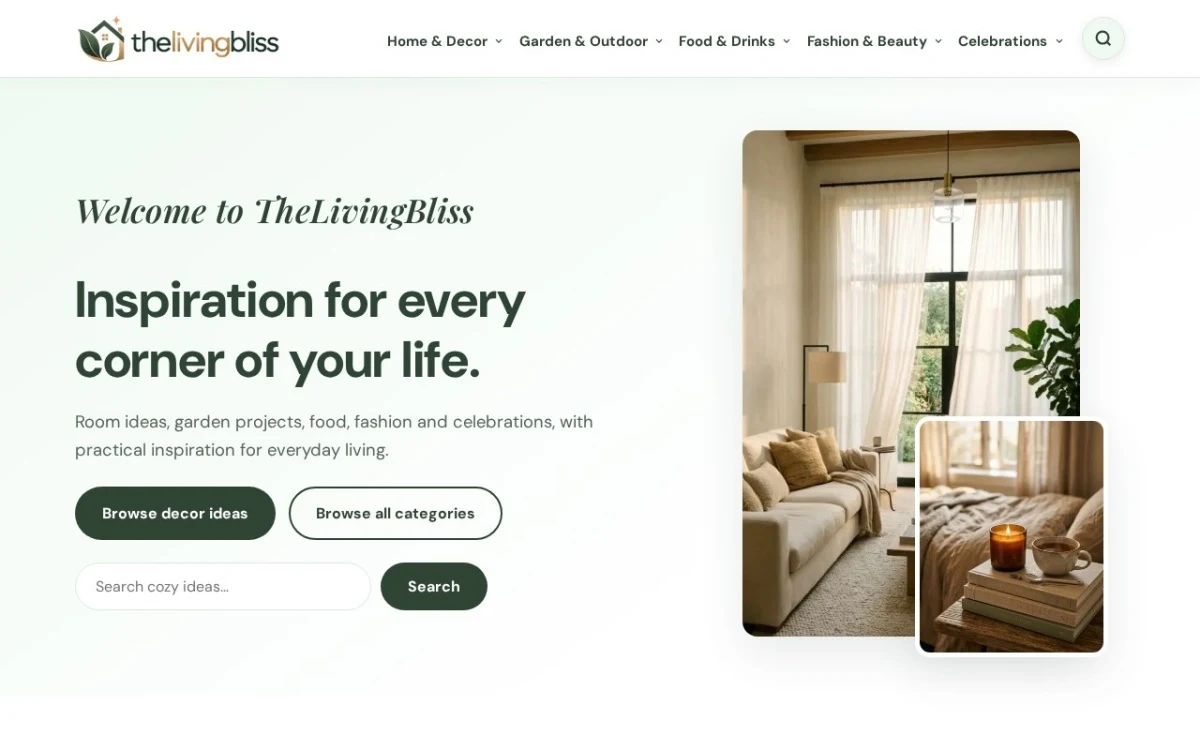
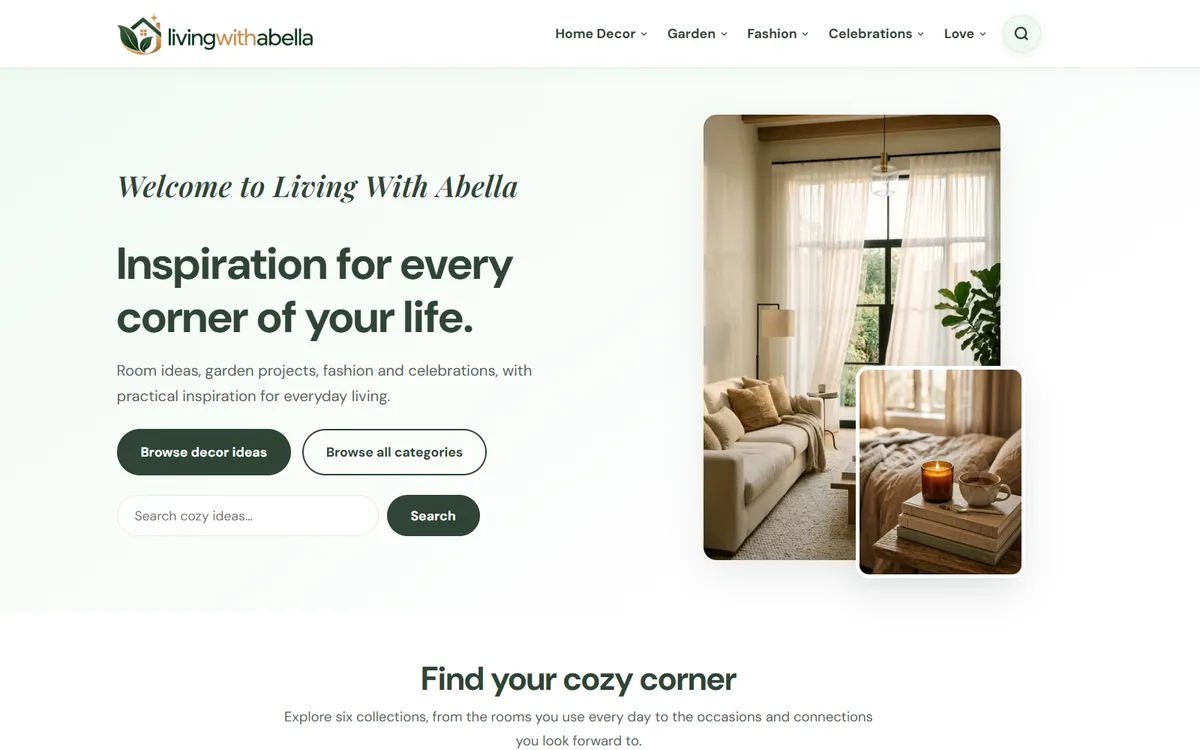
update portfolio

diff --git a/lib/portfolio.ts b/lib/portfolio.ts
@@ -16,7 +16,7 @@ export const portfolioProjects: readonly PortfolioProject[] = [
   { name:"Ultra Roofer Peak Authority", type:"Roofing service website", url:"https://ultra-roofer.vercel.app/", domain:"ultra-roofer.vercel.app", image:"/portfolio/ultra-roofer.webp", alt:"Ultra Roofer Peak Authority Los Angeles roofing website homepage", summary:"A high-contrast Los Angeles roofing website that frames inspections, repairs, and replacements around clear scope, documented work, and fast contact.", highlights:["Inspection-first funnel","Service-area positioning","24-hour contact path"], homeFeatured:true, homeOrder:4 },
   { name:"CraftGrid", type:"Web expert marketplace", url:"https://craftgrid.vercel.app/", domain:"craftgrid.vercel.app", image:"/portfolio/craftgrid.webp", alt:"CraftGrid specialized website development marketplace homepage", summary:"A specialized marketplace connecting businesses with vetted website builders, designers, and developers through upfront pricing, verified benchmarks, and milestone escrow protection.", highlights:["Specialized talent directory","Milestone escrow protection","Verified builder benchmarks"], homeFeatured:true, homeOrder:3 },
   { name:"SunnyCells", type:"Ecommerce wellness website", url:"https://sunnycells-demo.vercel.app/", domain:"sunnycells-demo.vercel.app", image:"/portfolio/sunnycellsweb.webp", alt:"SunnyCells wellness ecommerce website homepage", summary:"A warm, conversion-focused supplement storefront that turns a daily wellness product into a clear, repeatable morning ritual.", highlights:["Product-led art direction","Subscription-focused CTA","Ingredient storytelling"], homeFeatured:true, homeOrder:2 },
-  { name:"TheLivingBliss", type:"Lifestyle and editorial website", url:"https://thelivingbliss.com/", domain:"thelivingbliss.com", image:"/portfolio/thelivingbliss.webp", alt:"TheLivingBliss lifestyle website with home decor, garden, food, fashion, and celebrations", summary:"A warm, magazine-inspired lifestyle website bringing together home decor, gardening, food, fashion, and celebrations with clear category navigation and an inviting search experience.", highlights:["Editorial homepage design","Lifestyle category navigation","Search-first discovery"] },
+  { name:"Living With Abella", type:"Lifestyle and editorial website", url:"https://livingwithabella.com/", domain:"livingwithabella.com", image:"/portfolio/thelivingbliss.webp", alt:"Living With Abella homepage featuring home decor, garden, fashion, celebrations, and lifestyle inspiration", summary:"A welcoming lifestyle magazine with practical inspiration for home decor, gardening, fashion, celebrations, and everyday living.", highlights:["Editorial homepage design","Lifestyle category navigation","Search-first discovery"] },
   { name:"BrightSmile Dental", type:"Dental practice website", url:"https://brightsmile-dental-sigma.vercel.app/", domain:"brightsmile-dental-sigma.vercel.app", image:"/portfolio/brightsmile-dental.webp", alt:"BrightSmile Dental modern dental practice website homepage", summary:"A calm, patient-first dental website that pairs modern clinical care with clear appointment paths and reassuring proof.", highlights:["Appointment-focused UX","Trust-led presentation","Service clarity"] },
   { name:"BrightNest Cleaning", type:"Local service website", url:"https://brightnest-silk.vercel.app/", domain:"brightnest-silk.vercel.app", image:"/portfolio/socal-cleaning.webp", alt:"BrightNest Cleaning website homepage", summary:"A warm, trust-first cleaning website that makes services, coverage, and quote requests easy to understand on any screen.", highlights:["Fast quote journey","Service-area messaging","Mobile-first contact"] },
   { name:"Aurelia Cleaning", type:"Residential cleaning website", url:"https://aurelia-cleaning-ten.vercel.app/", domain:"aurelia-cleaning-ten.vercel.app", image:"/portfolio/aurelia.webp", alt:"Aurelia Cleaning service website homepage", summary:"A warm, modern brand experience for a residential cleaning service, balancing elegance with a direct path to request a quote.", highlights:["Modern brand presentation","Service clarity","Call and quote paths"] },
